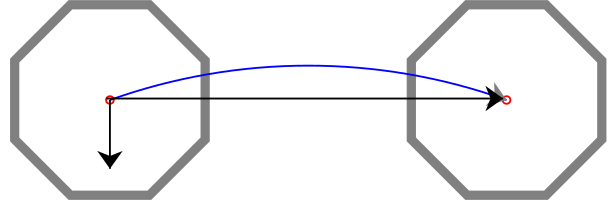
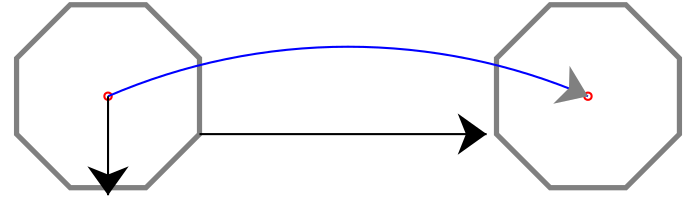
Update example to reflect new changes
- Rotate using the more natural angles
- Make the octagon smaller such that we avoid the bug caused by the
  `Ray` and `line_segment` interplay
- Fix height passed to `render_pdf`
- Black-ify

Changed region(s): [[0.0, 0.0, 0.987, 1.0]]

diff --git a/examples/arrows.py b/examples/arrows.py
@@ -2,6 +2,7 @@ from chalk import *
 from chalk.trail import Trail, Vec2Array
 from colour import Color
 from PIL import Image as PILImage
+
 grey = Color("grey")
 blue = Color("blue")
 orange = Color("orange")
@@ -16,32 +17,46 @@ c
 
 arrowV(unit_y).render_pdf("test.pdf", 200)
 
-octagon = polygon(8, 1.5).rotate_by(1/ 16).line_color(grey).line_width(0.5).show_origin()
+octagon = (
+    polygon(8, 1.0).rotate_by(1 / 16).line_color(grey).line_width(0.25).show_origin()
+)
 dias = octagon.named("first") | hstrut(3) | octagon.named("second")
 
-ex1 = dias.connect("first", "second",
-                   ArrowOpts(
-                       trail=Trail(Vec2Array([(1, 0), (0, 0.25), (1, 0), (0, -0.25)]))))
+ex1 = dias.connect(
+    "first",
+    "second",
+    ArrowOpts(trail=Trail(Vec2Array([(1, 0), (0, 0.25), (1, 0), (0, -0.25)]))),
+)
 ex1
 
-ex1 = dias.connect("first", "second", ArrowOpts(head_style=Style(fill_color=grey),
-                                                arc_height=0.5,
-                                                shaft_style=Style(line_color=blue)))
-ex12 = ex1.connect_perim("first", "second", unit_x.rotate_by(-9/16), unit_x.rotate_by(-15/16),
-                         ArrowOpts(head_pad=0.1)
-                         )
+ex1 = dias.connect(
+    "first",
+    "second",
+    ArrowOpts(
+        head_style=Style(fill_color=grey),
+        arc_height=0.5,
+        shaft_style=Style(line_color=blue),
+    ),
+)
+ex12 = ex1.connect_perim(
+    "first",
+    "second",
+    unit_x.rotate_by(15 / 16),
+    unit_x.rotate_by(9 / 16),
+    ArrowOpts(head_pad=0.1),
+)
 ex3 = arrowV(unit_y)
 d = ex12 + ex3
 
 d
 
-d.render_svg("output/arrows.svg", height=200)
+output_path = "examples/output/arrows.svg"
+d.render_svg(output_path, height=200)
 
-output_path = "output/arrows.png"
+output_path = "examples/output/arrows.png"
 d.render(output_path, height=200)
-
 
 PILImage.open(output_path)
 
-output_path = "output/arrows.pdf"
-d.render_pdf(output_path, height=2--00)
+output_path = "examples/output/arrows.pdf"
+d.render_pdf(output_path, height=200)
